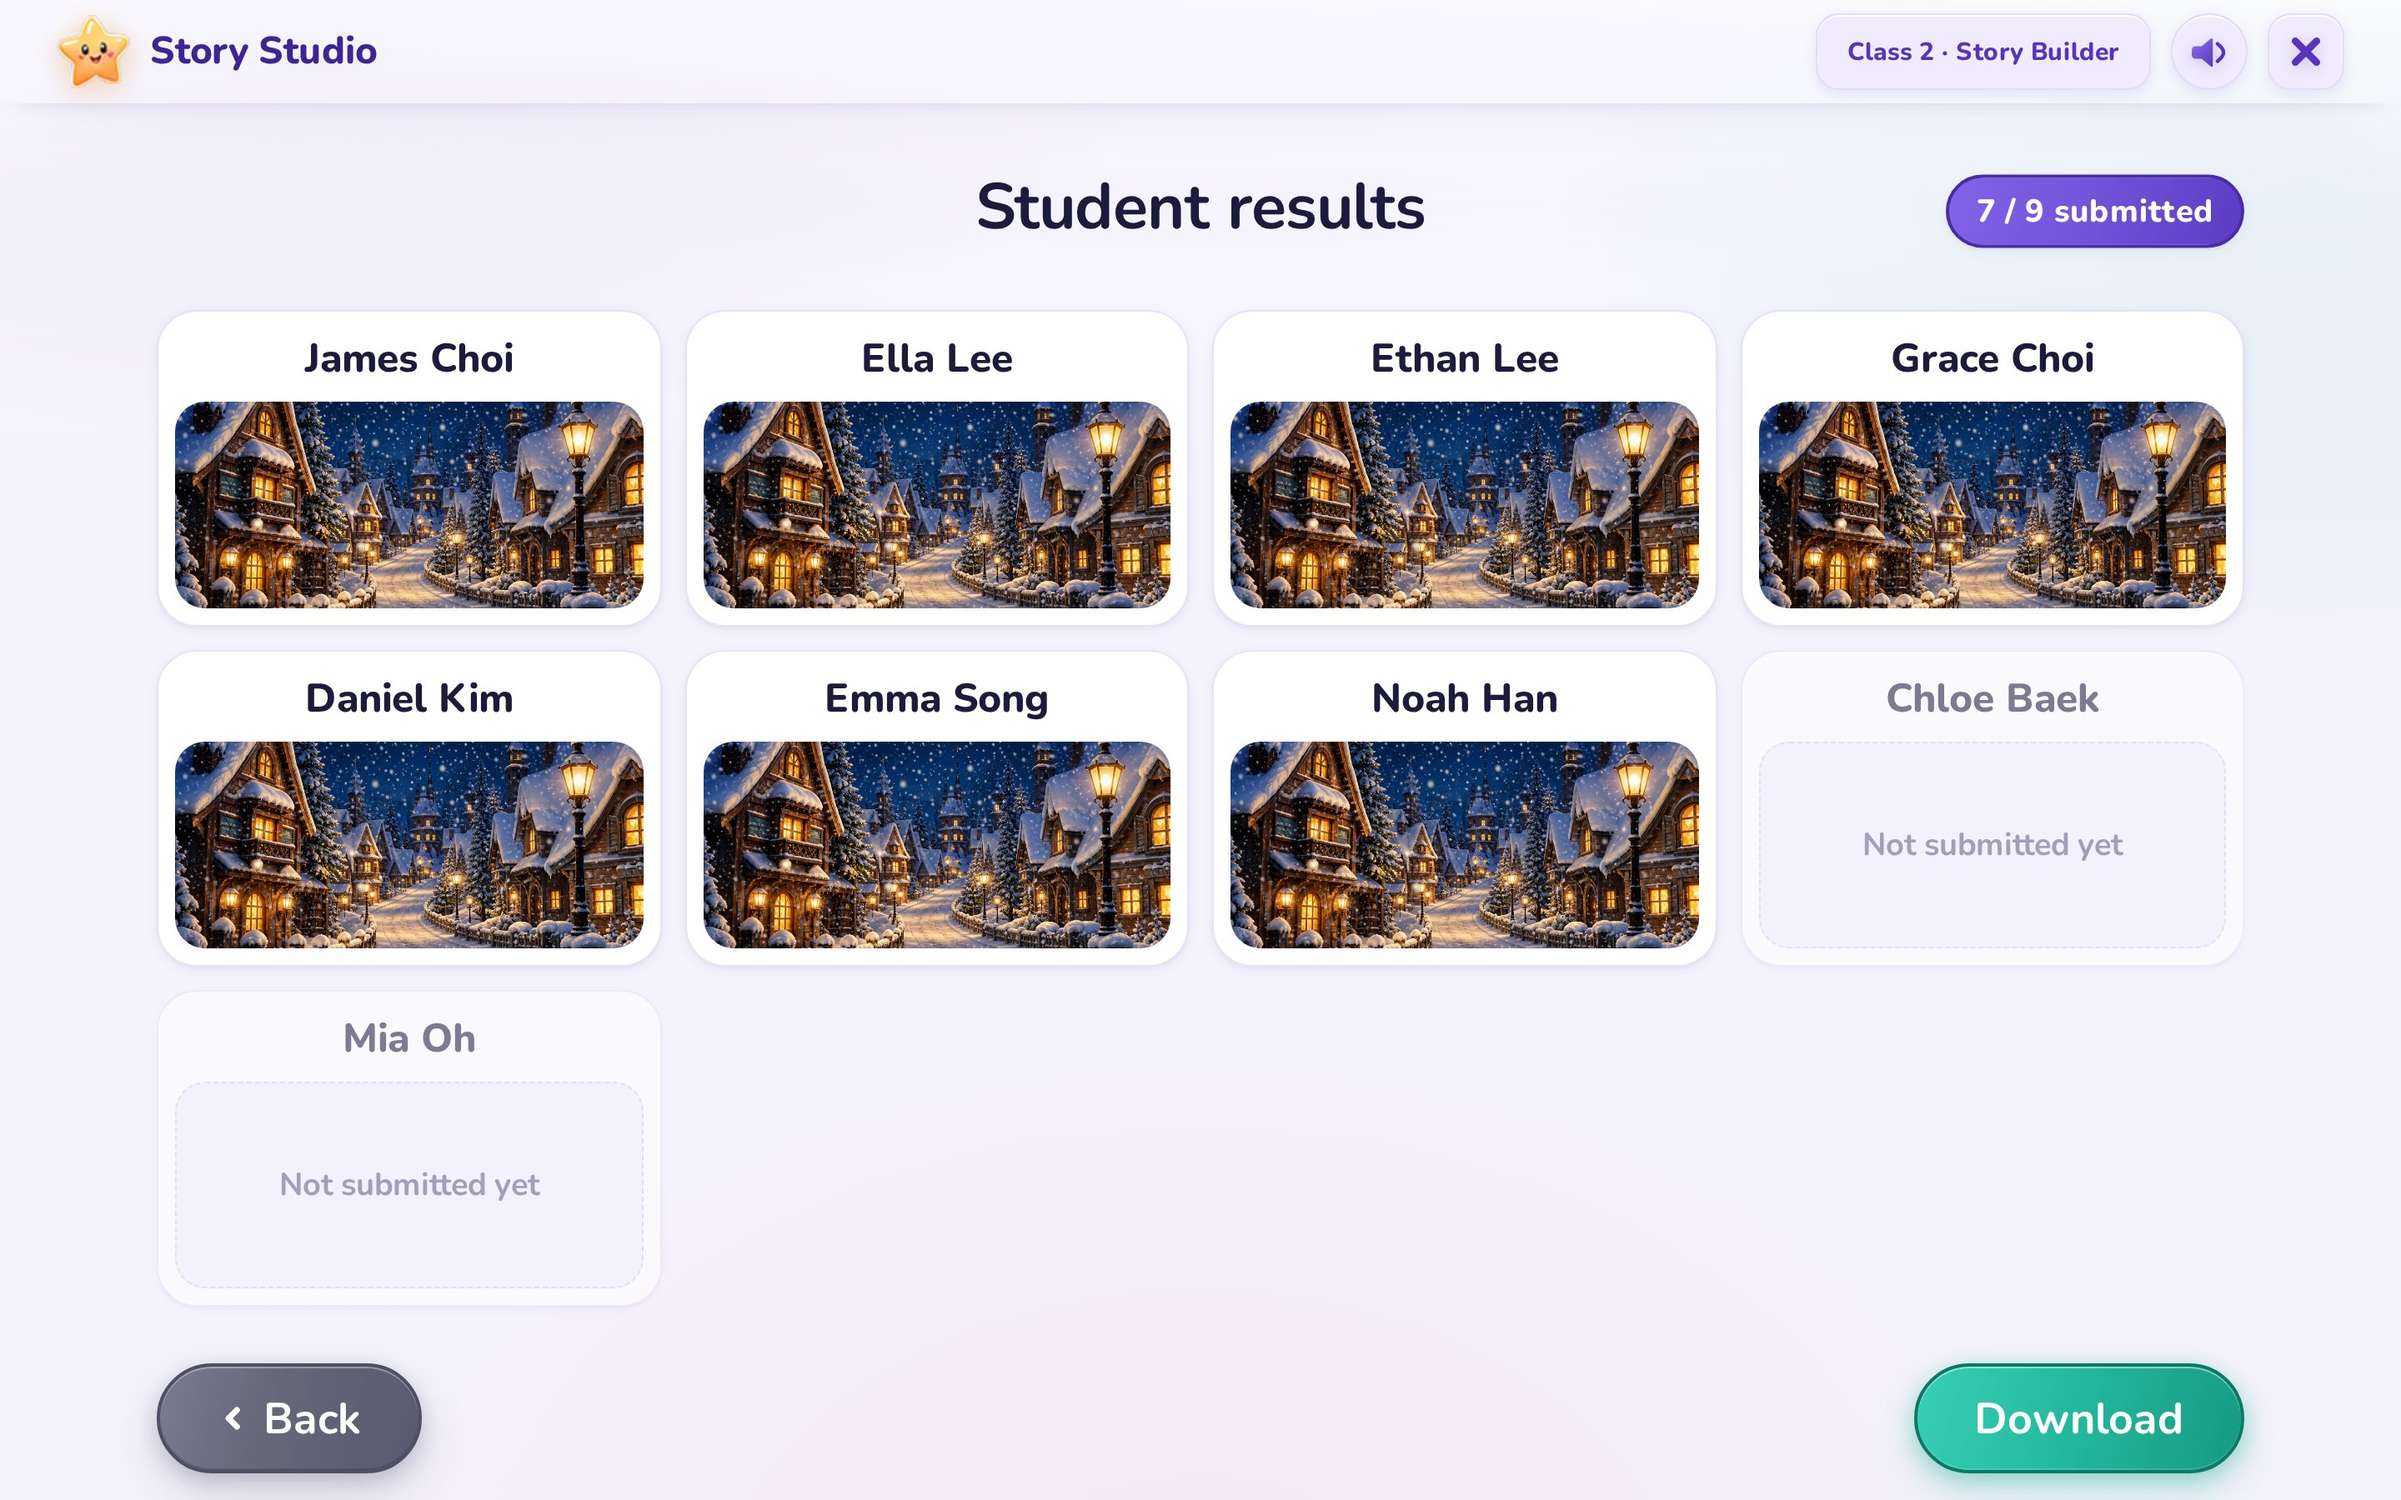
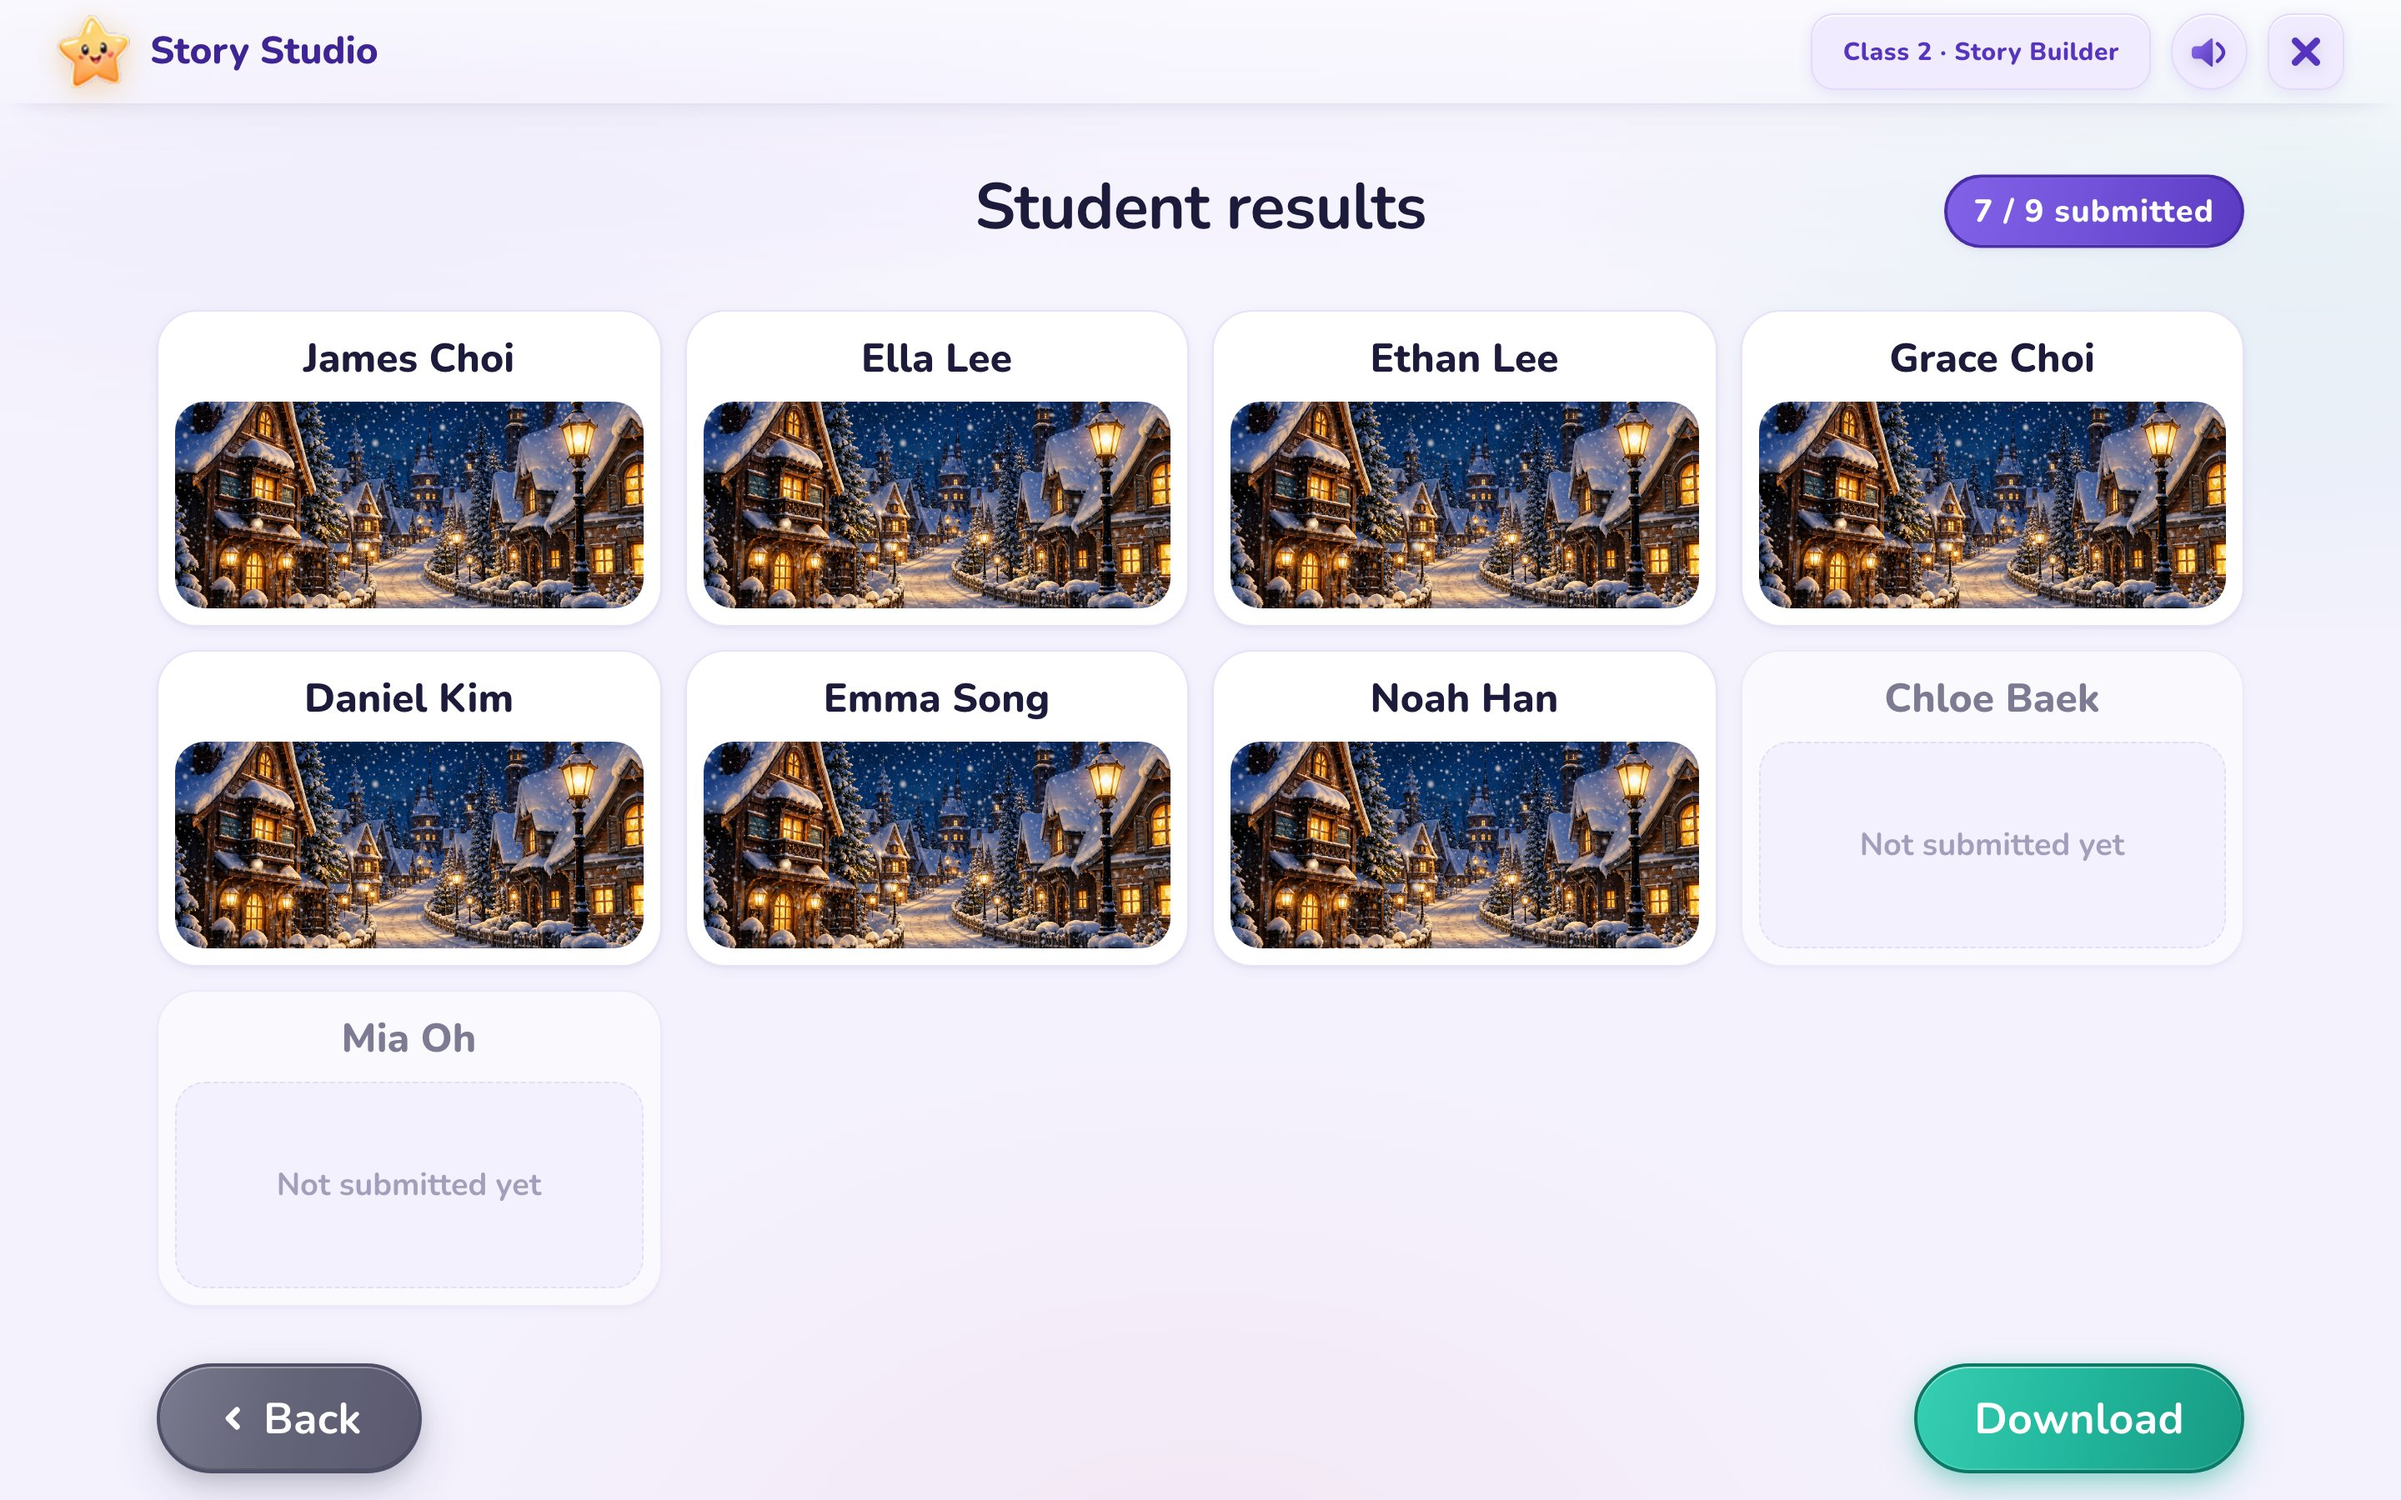
Lead Story Studio with its covers and split the flow by class

diff --git a/index.html b/index.html
@@ -340,6 +340,15 @@
     .flowstrip ol{grid-template-columns:repeat(3,1fr)}
     .flowstrip li:not(:last-child) .cut::after{display:none}
   }
+  /* Class 1 / Class 2 처럼 흐름이 다시 묶일 때 — 묶음마다 제 줄을 쓴다 */
+  .flowstrip.has-groups{display:grid;gap:clamp(26px,3vw,40px)}
+  .flowstrip .fgroup{display:block}
+  .flowstrip .gname{margin:0 0 12px;font-family:var(--grot);font-size:11px;font-weight:700;
+    letter-spacing:.14em;text-transform:uppercase;color:var(--accent);
+    display:flex;align-items:center;gap:12px}
+  .flowstrip .gname::after{content:'';flex:1;height:1px;background:var(--line)}
+  /* 묶음 안에서 번호를 다시 01 부터 */
+  .flowstrip .fgroup ol{counter-reset:fs}
   .feats{display:grid;gap:clamp(48px,6vw,96px)}
   .feats figure{margin:0;position:relative;display:grid;gap:18px}
   /* 좌우 주석 칸을 넉넉히 준다. 목업이 폭을 다 먹으면 점선이 이미지 위로만 지나가
@@ -1357,17 +1366,32 @@ function draw(){
     return out;
   };
 
-  // 학습 흐름 컷: scenes 중 flow:true 인 것만 작은 띠로 늘어놓는다
+  // 학습 흐름 컷: scenes 중 flow:true 인 것만 작은 띠로 늘어놓는다.
+  // group 이 붙어 있으면(Class 1 / Class 2) 그 단위로 다시 묶어 보여 준다.
   const flowStrip=p=>{
     const cuts=(p.scenes||[]).filter(s=>s.flow);
     if(cuts.length<2) return '';
-    const items=cuts.map(s=>`<li>
+    const li=s=>`<li>
       <span class="cut"><img src="${s.src}" alt="${esc(s.label||'')}" loading="lazy" decoding="async"
         onerror="this.closest('li').remove()"></span>
       <span class="cap">${esc(s.label||'')}</span>
-    </li>`).join('');
-    return `<div class="flowstrip"><p class="k">${esc(L==='ko'?'학습 흐름':'Learning flow')}</p>
-      <ol style="--n:${cuts.length}">${items}</ol></div>`;
+    </li>`;
+    const head=`<p class="k">${esc(L==='ko'?'학습 흐름':'Learning flow')}</p>`;
+    // 묶음이 없으면 한 줄로 (기존 동작)
+    if(!cuts.some(s=>s.group))
+      return `<div class="flowstrip">${head}<ol style="--n:${cuts.length}">${cuts.map(li).join('')}</ol></div>`;
+    // 묶음별로 — 번호는 묶음 안에서 다시 01 부터 센다
+    const groups=[];
+    for(const s of cuts){
+      const g=s.group||'';
+      if(!groups.length||groups[groups.length-1].g!==g) groups.push({g, items:[]});
+      groups[groups.length-1].items.push(s);
+    }
+    return `<div class="flowstrip has-groups">${head}${groups.map(gr=>`
+      <div class="fgroup">
+        ${gr.g?`<p class="gname">${esc(gr.g)}</p>`:''}
+        <ol style="--n:${gr.items.length}">${gr.items.map(li).join('')}</ol>
+      </div>`).join('')}</div>`;
   };
 
   const featRow=(src,list)=>{

diff --git a/assets/shared.js b/assets/shared.js
@@ -75,6 +75,8 @@ export function pick(p) {
       src: asset(s.src || `assets/shots/${p.id}--${s.id}.jpg`),
       // flow 컷은 큰 도판이 아니라 하단 띠에 작게 늘어놓는다
       flow: !!s.flow,
+      // 흐름 안에서 다시 묶이는 단위 (Story Studio 의 Class 1 / Class 2)
+      group: s.group || '',
       label: t(s.label),
       note: t(s.note),
       features: (s.features || []).map(feat),
